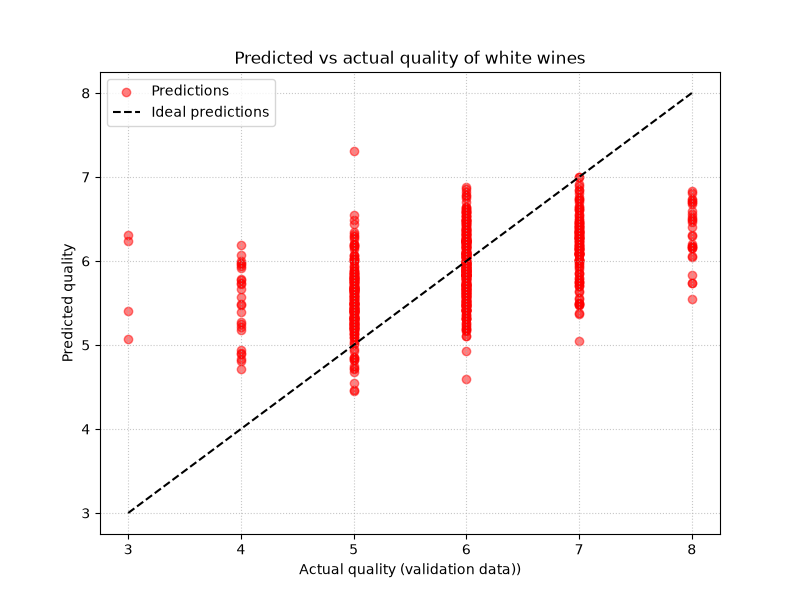
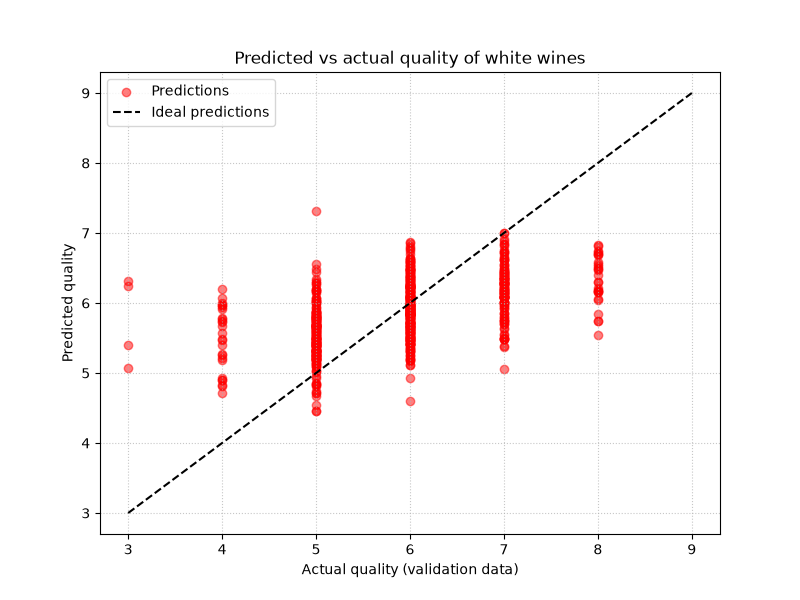
typos fixed

diff --git a/project.py b/project.py
@@ -65,10 +65,10 @@ plt.figure(figsize=(8, 6))
 plt.scatter(y_white_val, y_white_pred, alpha=0.5, color='red', label='Predictions')
 
 # Target predictions
-plt.plot([3, 8], [3, 8], color='black', linestyle='--', label='Ideal predictions')
+plt.plot([3, 9], [3, 9], color='black', linestyle='--', label='Ideal predictions')
 
 plt.title('Predicted vs actual quality of white wines')
-plt.xlabel('Actual quality (validation data))')
+plt.xlabel('Actual quality (validation data)')
 plt.ylabel('Predicted quality')
 plt.legend()
 plt.grid(True, linestyle=':', alpha=0.7)
@@ -85,7 +85,7 @@ plt.scatter(y_red_val, y_red_pred, alpha=0.5, color='red', label='Predictions')
 plt.plot([3, 8], [3, 8], color='black', linestyle='--', label='Ideal predictions')
 
 plt.title('Predicted vs actual quality of red wines')
-plt.xlabel('Actual quality (validation data))')
+plt.xlabel('Actual quality (validation data)')
 plt.ylabel('Predicted quality')
 plt.legend()
 plt.grid(True, linestyle=':', alpha=0.7)
